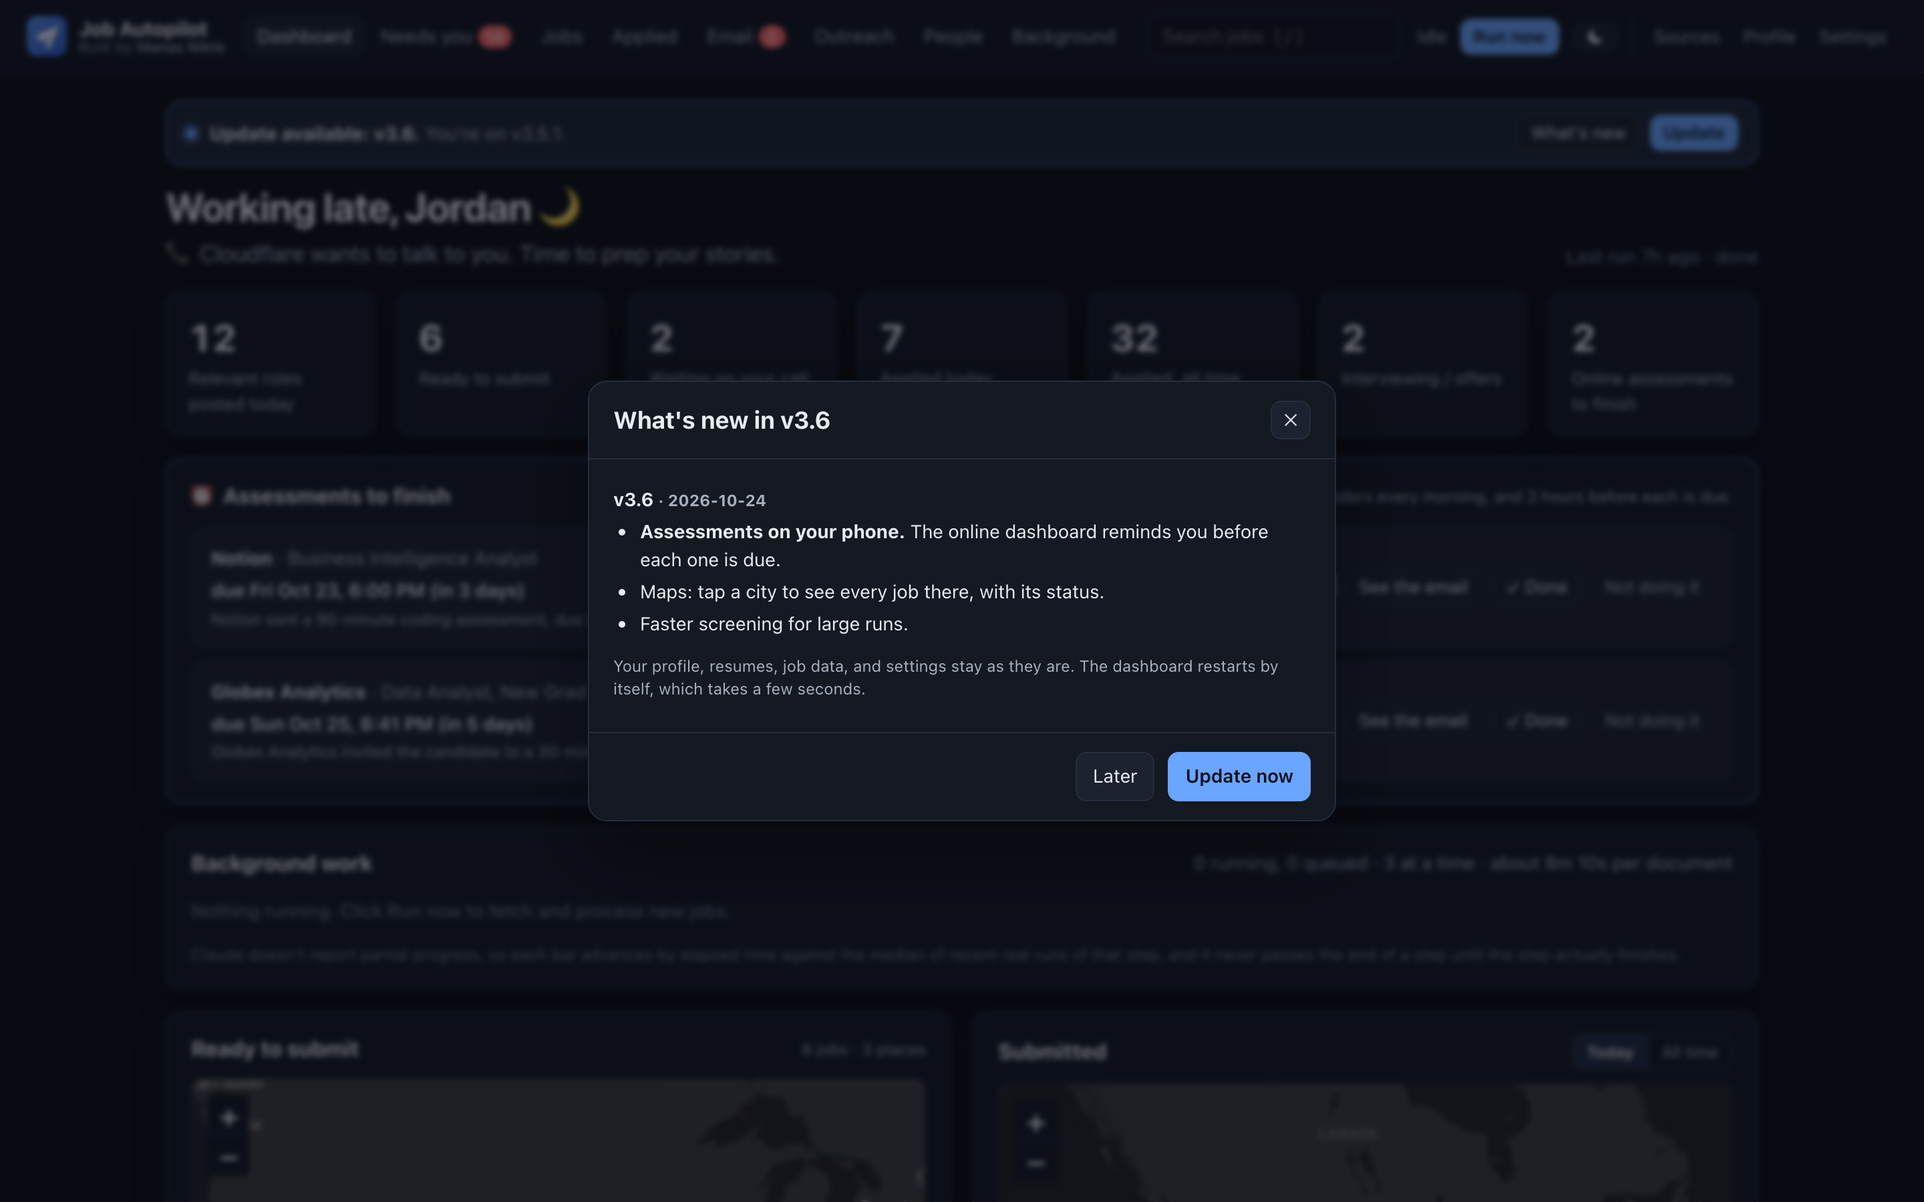
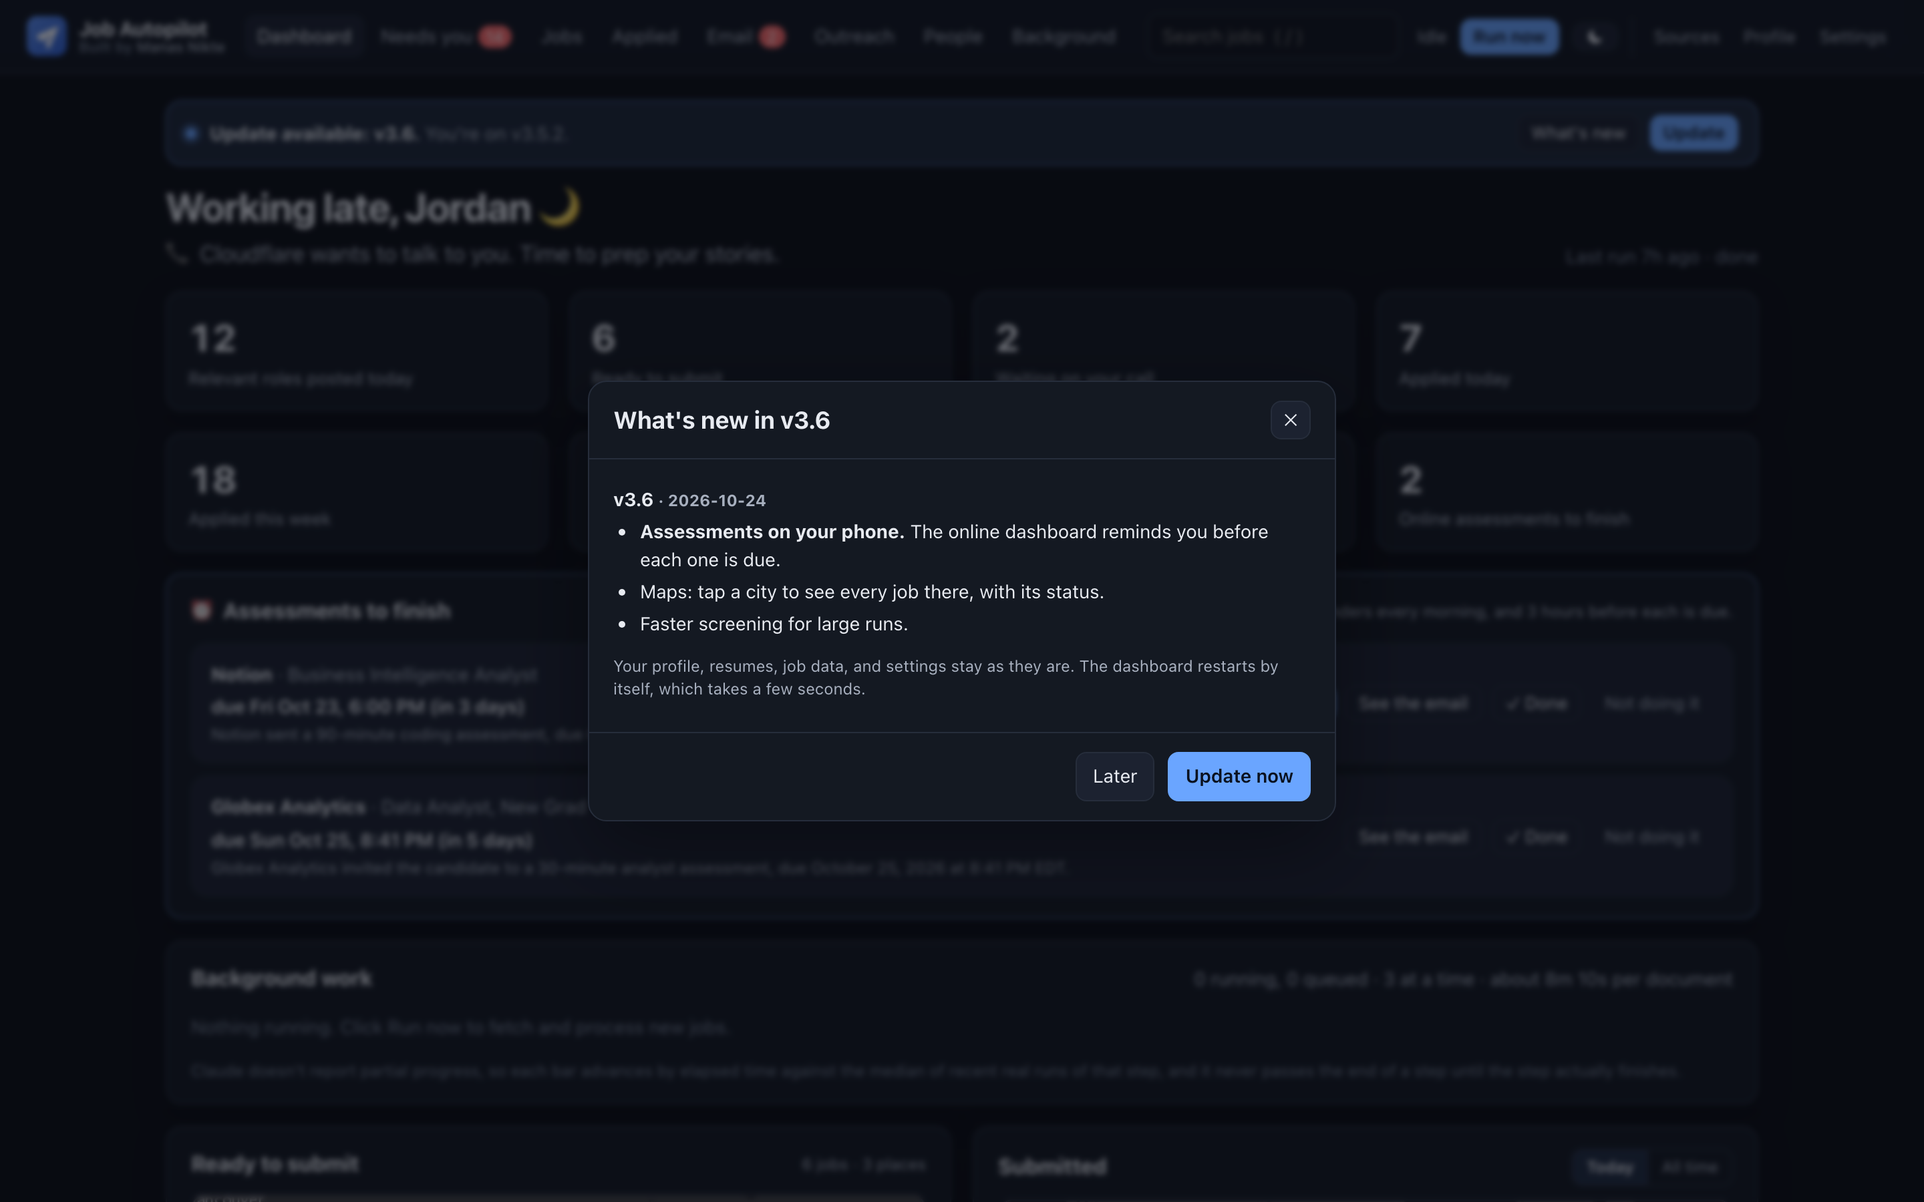
v3.5.3: Applied this week tile (Sunday to Saturday); docs say where each dashboard belongs
- Dashboard and online dashboard: Applied this week KPI (week starts Sunday 00:00 local time),
  eight tiles in a symmetric 4 x 2 grid (one row on very wide monitors)
- README and report: the local app is for laptops and desktops (it adapts from split-screen
  windows to 32-inch monitors); phones, tablets, and TVs use the online dashboard. Removed the
  'local dashboard on a phone/tablet' screenshots; refreshed dashboard, light theme, tour,
  update dialog, assessments, and online dashboard screenshots

diff --git a/app/static/style.css b/app/static/style.css
@@ -52,8 +52,8 @@ h3 { font-size: 14px; margin: 14px 0 8px; }
 .grid { display: grid; gap: 16px; }
 .g2 { grid-template-columns: 1fr 1fr; }
 .g3 { grid-template-columns: repeat(3, 1fr); }
-.kpis { grid-template-columns: repeat(7, 1fr); }
-@media (max-width: 900px) { .g2, .g3 { grid-template-columns: 1fr; } .kpis { grid-template-columns: repeat(4, 1fr); } }
+.kpis { grid-template-columns: repeat(4, 1fr); }   /* 8 tiles: a 4 × 2 grid */
+@media (max-width: 900px) { .g2, .g3 { grid-template-columns: 1fr; } .kpis { grid-template-columns: repeat(2, 1fr); } }
 @media (max-width: 600px) { .kpis { grid-template-columns: repeat(2, 1fr); } }
 .tile { background: var(--surface); border: 1px solid var(--border); border-radius: var(--radius); padding: 14px 16px; display: block; color: inherit; }
 .tile:hover { text-decoration: none; border-color: var(--accent); }
@@ -385,8 +385,6 @@ dialog.modal[open] { display: flex; flex-direction: column; }
 @media (prefers-reduced-motion: reduce) { .tour-spot, .tour-card, .tour-dots i { transition: none; } }
 
 /* ---------- Online assessments ---------- */
-@media (max-width: 1250px) and (min-width: 901px) { .kpis { grid-template-columns: repeat(4, 1fr); } }
-@media (max-width: 600px) { .kpis > .tile:last-child:nth-child(odd) { grid-column: 1 / -1; } }
 .tile.tile-alert { border-color: color-mix(in srgb, var(--critical, #e5484d) 55%, var(--border)); }
 .tile.tile-alert .v { color: var(--critical, #e5484d); }
 .assess-card { margin-top: 16px; border-color: color-mix(in srgb, var(--accent) 35%, var(--border)); }
@@ -403,3 +401,4 @@ dialog.modal[open] { display: flex; flex-direction: column; }
 .btn.ghost { background: transparent; }
 .email-text { white-space: pre-wrap; margin: 8px 0 4px; padding: 10px 12px; border: 1px solid var(--border); border-radius: 10px;
   background: var(--surface-2, transparent); font-size: 13px; line-height: 1.5; max-height: 360px; overflow: auto; }
+@media (min-width: 1900px) { .kpis { grid-template-columns: repeat(8, 1fr); } }   /* wide monitors: one row */

diff --git a/app/templates/dashboard.html b/app/templates/dashboard.html
@@ -18,6 +18,7 @@
   <a class="tile" href="{{ url_for('jobs', status='ready') }}"><div class="v">{{ kpis.ready }}</div><div class="k">Ready to submit</div></a>
   <a class="tile" href="{{ url_for('jobs', status='needs_decision') }}"><div class="v">{{ kpis.decide }}</div><div class="k">Waiting on your call</div></a>
   <a class="tile" href="{{ url_for('jobs', status='applied_all') }}"><div class="v">{{ kpis.applied_today }}</div><div class="k">Applied today</div></a>
+  <a class="tile" href="{{ url_for('jobs', status='applied_all') }}" title="Sunday to Saturday"><div class="v">{{ kpis.applied_week }}</div><div class="k">Applied this week</div></a>
   <a class="tile" href="{{ url_for('jobs', status='applied_all') }}"><div class="v">{{ kpis.applied_total }}</div><div class="k">Applied, all time</div></a>
   <a class="tile" href="{{ url_for('jobs', status='interviewing') }}"><div class="v">{{ kpis.interviewing }}</div><div class="k">Interviewing / offers</div></a>
   <a class="tile{{ ' tile-alert' if assess and assess[0].urgent }}" href="{{ '#assessments' if assess else url_for('email_page', event='assessment') }}"><div class="v">{{ kpis.assessments }}</div><div class="k">Online assessments to finish</div></a>

diff --git a/docs/app.css b/docs/app.css
@@ -88,6 +88,6 @@ code { font-size: 13px; background: var(--surface-2); padding: 1px 5px; border-r
 
 .assess-card { border-color: color-mix(in srgb, var(--accent) 40%, var(--border)); }
 #assess-list .job.urgent .sub { color: #e5484d; font-weight: 600; }
-.kpis { grid-template-columns: repeat(7, 1fr) !important; }
-@media (max-width: 1250px) { .kpis { grid-template-columns: repeat(4, 1fr) !important; } }
-@media (max-width: 560px) { .kpis { grid-template-columns: repeat(2, 1fr) !important; } .kpis > .tile:last-child:nth-child(odd) { grid-column: 1 / -1; } }
+.kpis { grid-template-columns: repeat(4, 1fr) !important; }              /* 8 tiles: a 4 × 2 grid */
+@media (min-width: 1900px) { .kpis { grid-template-columns: repeat(8, 1fr) !important; } }
+@media (max-width: 560px) { .kpis { grid-template-columns: repeat(2, 1fr) !important; } }

diff --git a/docs/app.js b/docs/app.js
@@ -150,7 +150,7 @@
     $("#hello-title").textContent = d.greeting?.title || "Welcome";
     $("#hello-text").textContent = d.greeting?.text || "";
     const k = d.kpis || {};
-    const tiles = [["Applied today", k.applied_today], ["Applied, all time", k.applied_total], ["Ready to submit", k.ready],
+    const tiles = [["Applied today", k.applied_today], ["Applied this week", k.applied_week], ["Applied, all time", k.applied_total], ["Ready to submit", k.ready],
                    ["Interviewing / offers", k.interviewing], ["Waiting on your call", k.decide], ["Rejected", k.rejected],
                    ["Assessments to finish", k.assessments]];
     const box = $("#kpis"); box.replaceChildren();

diff --git a/app/web.py b/app/web.py
@@ -131,6 +131,13 @@ def _followups() -> None:
                                 "One follow-up max. A 15-minute coffee chat or one question about the team.")
 
 
+def week_start_utc(today=None) -> str:
+    """This calendar week's start, Sunday 00:00 on this computer's clock (weeks run Sunday to Saturday), in UTC."""
+    today = today or datetime.now().astimezone().date()
+    sunday = today - timedelta(days=(today.weekday() + 1) % 7)     # weekday(): Monday 0 … Sunday 6
+    return datetime.combine(sunday, datetime.min.time()).astimezone().astimezone(timezone.utc).isoformat()
+
+
 @app.route("/")
 def dashboard():
     _followups()
@@ -147,12 +154,11 @@ def dashboard():
     start_utc = datetime.combine(today, datetime.min.time()).astimezone().astimezone(timezone.utc).isoformat()
     counts = {r["status"]: r["n"] for r in db.fetchall("SELECT status, count(*) AS n FROM jobs GROUP BY status")}
     applied_total = sum(counts.get(s, 0) for s in ("applied", "interviewing", "offer", "closed"))
-    week_ago = (datetime.now(timezone.utc) - timedelta(days=7)).isoformat()
     kpis = {
         "posted_today": db.fetchone("SELECT count(*) AS n FROM jobs WHERE posted_at>=? AND status!='filtered_out'", (start_utc,))["n"],
         "ready": counts.get("ready", 0),
         "decide": counts.get("needs_decision", 0),
-        "applied_week": db.fetchone("SELECT count(*) AS n FROM jobs WHERE applied_at>=?", (week_ago,))["n"],
+        "applied_week": db.fetchone("SELECT count(*) AS n FROM jobs WHERE applied_at>=?", (week_start_utc(),))["n"],
         "applied_today": db.fetchone("SELECT count(*) AS n FROM jobs WHERE applied_at>=?", (start_utc,))["n"],
         "applied_total": applied_total,
         "interviewing": counts.get("interviewing", 0) + counts.get("offer", 0),

diff --git a/tests/test_assessments.py b/tests/test_assessments.py
@@ -123,3 +123,25 @@ def test_map_shows_assessments_as_their_own_pins(data, monkeypatch):
     only = c.get("/api/map?set=today&show=assessment").get_json()
     assert sorted(j["status"] for p in only["pins"] for j in p["jobs"]) == ["assessment", "assessment"]
     assert all(j["status"] != "assessment" for p in c.get("/api/map?set=all&show=applied").get_json()["pins"] for j in p["jobs"])
+
+
+def test_week_runs_sunday_to_saturday():
+    from datetime import date
+    from app.web import week_start_utc
+    start = lambda d: datetime.fromisoformat(week_start_utc(d)).astimezone().date()
+    assert start(date(2026, 10, 18)) == date(2026, 10, 18)        # Sunday: the week starts today
+    assert start(date(2026, 10, 21)) == date(2026, 10, 18)        # Wednesday
+    assert start(date(2026, 10, 24)) == date(2026, 10, 18)        # Saturday: last day of the same week
+    assert start(date(2026, 10, 25)) == date(2026, 10, 25)        # next Sunday: a new week
+    assert datetime.fromisoformat(week_start_utc(date(2026, 10, 21))).astimezone().strftime("%H:%M") == "00:00"
+
+
+def test_applied_this_week_tile(data):
+    from app.web import app, week_start_utc
+    sunday = datetime.fromisoformat(week_start_utc())
+    db.upsert_job({"id": "w:1", "company": "A", "title": "T", "status": "applied", "applied_at": (sunday + timedelta(minutes=5)).isoformat()})
+    db.upsert_job({"id": "w:2", "company": "B", "title": "T", "status": "applied", "applied_at": (sunday - timedelta(minutes=5)).isoformat()})
+    html = app.test_client().get("/").get_data(as_text=True)
+    i = html.index("Applied this week")
+    assert '<div class="v">1</div><div class="k">Applied this week' in html[i - 60:i + 20]
+    assert html.count('class="tile') >= 8

diff --git a/app/cloud.py b/app/cloud.py
@@ -192,6 +192,12 @@ SYNC_STATUSES = ("needs_decision", "to_tailor", "tailoring", "ready", "below_thr
                  "applied", "interviewing", "offer", "closed")
 
 
+def _applied_this_week() -> int:
+    """Applications since Sunday 00:00 local time (weeks run Sunday to Saturday)."""
+    from .web import week_start_utc
+    return db.count("jobs", "applied_at >= ?", (week_start_utc(),))
+
+
 def _assessment_kpi() -> int:
     try:
         from . import assessments
@@ -238,6 +244,7 @@ def snapshot() -> dict:
             "interviewing": counts.get("interviewing", 0) + counts.get("offer", 0),
             "rejected": counts.get("closed", 0),
             "assessments": _assessment_kpi(),
+            "applied_week": _applied_this_week(),
         },
         "pipeline": {k: counts.get(k, 0) for k in ("to_screen", "needs_decision", "to_tailor", "tailoring", "ready",
                                                   "applied", "interviewing", "offer", "closed")},

diff --git a/app/version.py b/app/version.py
@@ -1,3 +1,3 @@
 """The app's version. Bump it (and add a section to CHANGELOG.md) when you push a release: everyone else's
 dashboard then shows "Update available" with those notes."""
-VERSION = "3.5.2"
+VERSION = "3.5.3"

diff --git a/README.md b/README.md
@@ -64,9 +64,11 @@ when the company later invites you to interview, makes an offer, or declines.
 
 ### v3.0: check on your job search from your phone, and start a run from anywhere
 
-- **Responsive everywhere.** The dashboard now fits a phone, a tablet, a laptop, or a 32-inch monitor or TV:
-  - On phones: a menu button, stacked tables, and swipeable tabs.
-  - On big screens: wider layouts and larger type, readable from across the room.
+- **Two dashboards, each for its screen.**
+  - **The local app** (`127.0.0.1`) runs on your laptop or desktop. It adapts to the window: a narrow
+    split-screen window gets a compact menu and stacked tables, and a 32-inch monitor gets wider layouts and
+    larger type.
+  - **The online dashboard** is the one for your phone, tablet, or TV.
 - **An online dashboard** you can host for free (GitHub Pages + Supabase). Sign in with your email and password
   to see:
   - your greeting, KPIs, and live background work
@@ -89,18 +91,16 @@ when the company later invites you to interview, makes an offer, or declines.
 - **Only summaries go online:** counts, job titles and statuses, and one-line email summaries. Resumes, cover
   letters, your prompt, and email text stay on your computer.
 
-| Online: sign in | Online: forgot password (emailed code) | Online: dashboard on a phone | Local dashboard on a phone |
-|---|---|---|---|
-| ![Sign in](docs/screenshots/online-signin.png) | ![Reset](docs/screenshots/online-reset.png) | ![Online phone](docs/screenshots/online-phone.png) | ![Local phone](docs/screenshots/dashboard-phone.png) |
+| Online: sign in | Online: forgot password (emailed code) | Online: dashboard on a phone |
+|---|---|---|
+| ![Sign in](docs/screenshots/online-signin.png) | ![Reset](docs/screenshots/online-reset.png) | ![Online phone](docs/screenshots/online-phone.png) |
 
 ![Online dashboard on a laptop](docs/screenshots/online-desktop.png)
 
 <details>
-<summary>Tablet and TV views</summary>
+<summary>On a TV or 32-inch monitor</summary>
 
-| Tablet (local dashboard) | 2560-px monitor or TV (online dashboard) |
-|---|---|
-| ![Tablet](docs/screenshots/dashboard-tablet.png) | ![TV](docs/screenshots/online-tv.png) |
+![Online dashboard on a 2560-px screen](docs/screenshots/online-tv.png)
 
 </details>
 
@@ -159,12 +159,13 @@ assessment surfaced with its deadline, and eight confirmations recorded.
 
 | Version | What it added |
 |---|---|
+| **v3.5.3** | New **Applied this week** tile (Sunday to Saturday); 8 tiles in a 4 × 2 grid on both dashboards |
 | **v3.5** | Assessments on the Submitted map (amber pins with due times; own filter chip) |
 | **v3.4** | Online assessments: KPI tile, due-time card with Done, daily and 3-hours-before reminders, unmatched emails included |
 | **v3.3** | Guided first-run tour of the dashboard (skippable, replay from Settings) |
 | **v3.2** | Email updates on the online dashboard follow undo, ignore, and manual matching on your computer |
 | **v3.1** | One-click in-app updates with release notes; sign in to the online dashboard with more than one email; operator-only user counts and Users page; reliability fixes (cloud sync, phone requests, password reset, follow-up reminders) |
-| **v3.0** | Responsive UI for phones, tablets, and big screens; free hosted online dashboard (GitHub Pages + Supabase) with email/password sign-in, emailed-code confirmation and password reset; remote Run now / Check email from your phone; scheduled Mac wake to pick up requests; operator email when someone joins |
+| **v3.0** | Local app adapts from split-screen windows to 32-inch monitors; phone, tablet, and TV via the online dashboard; free hosted online dashboard (GitHub Pages + Supabase) with email/password sign-in, emailed-code confirmation and password reset; remote Run now / Check email from your phone; scheduled Mac wake to pick up requests; operator email when someone joins |
 | **v2.1** | Personal greeting above the KPIs (time of day + streaks, personal bests, interviews, ready-to-send); asks your name on first launch, editable in Settings; live email-check status in Background work; author credit in the header and footer |
 | **v2.0** | Application emails read from Gmail, Outlook / Microsoft 365, or Apple Mail; automatic status updates with undo; Email page; assessment, interview, and offer items in Needs you |
 | **v1.3** | Runs on macOS, Windows, and Linux; one-command setup by Claude Code ([CLAUDE_SETUP.md](CLAUDE_SETUP.md)); built-in scheduling clock; self-healing documents and **Fix it** |
@@ -222,7 +223,7 @@ assessment surfaced with its deadline, and eight confirmations recorded.
 - **Self-healing documents.** Bullets that are a hair too long stay on one line with slightly tighter letter
   spacing, and pages use the smaller sizes the prompt allows before overflowing. **Fix it** re-fits flagged
   documents without a Claude call, and asks for a small trim only if that isn't enough.
-- **Dashboard.** A personal greeting written from the time of day and your real progress, KPIs (including **applied today**), **maps of where you're applying**, a 14-day
+- **Dashboard.** A personal greeting written from the time of day and your real progress, eight KPI tiles in a 4 × 2 grid (including **applied today**, **applied this week** (Sunday to Saturday), and **assessments to finish**), **maps of where you're applying**, a 14-day
   applications chart, a pipeline funnel, live per-job progress bars with an honest "not started / running /
   paused" status, server-side pagination and search everywhere, and dark, light, and system themes.
 - **Online assessments with deadlines (v3.4–v3.5).** Due times are read from the email. Pending assessments get
@@ -301,10 +302,6 @@ for this role.
 | Email updates (read-only inbox tracking) | Users page (site operator only; counts, never companies) |
 |---|---|
 | ![Email](docs/screenshots/email.png) | ![Users](docs/screenshots/users.png) |
-
-| Phone | Tablet |
-|---|---|
-| ![Phone](docs/screenshots/dashboard-phone.png) | ![Tablet](docs/screenshots/dashboard-tablet.png) |
 
 ---
 

diff --git a/PROJECT_REPORT.md b/PROJECT_REPORT.md
@@ -8,7 +8,7 @@ including overnight with the laptop lid closed, so the candidate's time goes onl
 | **Type** | Personal tool, built end to end (backend, LLM integration, PDF rendering, browser extension, scheduling) |
 | **Stack** | Python, Flask, SQLite, Claude (Claude Code CLI or Anthropic API, with web search), reportlab, Leaflet maps, Chrome extension (MV3), Playwright, macOS launchd/pmset · online dashboard on GitHub Pages + Supabase (Postgres, Auth, row-level security, realtime) |
 | **Size** | About 12,600 lines across the app, extension, website, and SQL · 102 automated tests |
-| **Platforms** | macOS (primary), Windows, Linux, plus a phone/tablet/TV dashboard · one-command setup by Claude Code ([CLAUDE_SETUP.md](CLAUDE_SETUP.md)) · one-click in-app updates |
+| **Platforms** | The app runs on a laptop or desktop: macOS (primary), Windows, Linux. A hosted online dashboard covers phone, tablet, and TV · one-command setup by Claude Code ([CLAUDE_SETUP.md](CLAUDE_SETUP.md)) · one-click in-app updates |
 | **Status** | In daily use since October 2026 |
 
 ---
@@ -70,8 +70,9 @@ ready for the best matches, and a **Needs you** inbox with only these items:
 - Answer a fact only you know (asked once, remembered forever)
 - Review and submit (the Chrome extension fills the form; you press Submit)
 
-The dashboard opens with today's numbers (**applied today**, ready to submit, waiting on your call) and **two
-maps**: one pins every job that's ready to submit, and the other pins submitted applications. The second map
+The dashboard opens with eight tiles in a 4 × 2 grid: new roles today, ready to submit, waiting on your call,
+**applied today**, **applied this week** (Sunday to Saturday), applied all time, interviewing, and assessments to
+finish. Below them are **two maps**: one pins every job that's ready to submit, and the other pins submitted applications. The second map
 switches between **Today** (applied, moved forward, or rejected today) and **All time**, and four toggle chips,
 **Applied**, **Interviewing / offer**, **Assessments**, and **Rejected**, show any mix, such as only rejections or
 only pending assessments. Jobs that can't be pinned (remote, country-wide) are listed under the map, never dropped. One
@@ -104,7 +105,9 @@ the company later invites the candidate to interview, makes an offer, or decline
 
 ### Away from the laptop
 
-An optional **online dashboard** works on a phone, tablet, or TV. It shows the same progress, jobs, email updates,
+The app itself lives on the laptop (`127.0.0.1`). Its layout adapts from a narrow split-screen window to a 32-inch
+monitor, but it isn't meant to be opened on a phone. For that there's an optional **online dashboard** that works
+on a phone, tablet, or TV. It shows the same progress, jobs, email updates,
 and assessments. It can also start a run or an email check on the candidate's computer. Behind it:
 
 - **Free hosting:** GitHub Pages and Supabase.

diff --git a/CHANGELOG.md b/CHANGELOG.md
@@ -3,6 +3,9 @@
 Your dashboard shows the newest section here as "What's new" when an update is available.
 Format: `## <version> (<date>)` followed by short, user-facing bullets.
 
+## 3.5.3 (2026-10-21)
+- New **Applied this week** tile (weeks run Sunday to Saturday). The dashboard now has eight tiles in an even 4 × 2 grid, and so does the online dashboard.
+
 ## 3.5.2 (2026-10-21)
 - Maps: amber (assessment) and red (rejected) pins are drawn on top, so a big city pin can't hide them.
 - README and project report refreshed with new screenshots.
